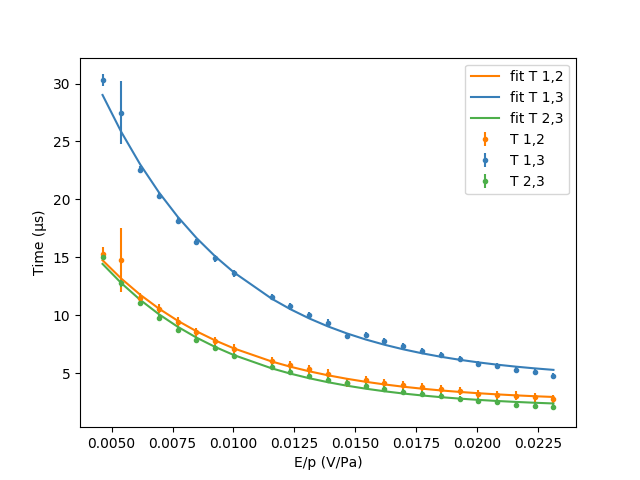
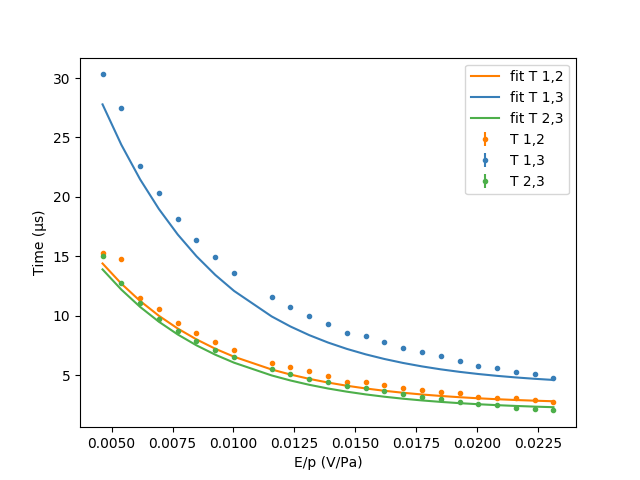
Further data analysis

diff --git a/plot_analyzed_data.py b/plot_analyzed_data.py
@@ -1,7 +1,7 @@
 import numpy as np
 import matplotlib.pyplot as plt
 import scipy.optimize as opt
-(voltages, reduced_E_fields, t12s, stdDevT12s, t13s, stdDevT13s, t23s, stdDevT23s, v12s, stdDevV12s, v13s, stdDevV13s, v23s, stdDevV23s) = np.loadtxt("results.tsv", delimiter="\t", unpack=True)
+(voltages, reduced_E_fields, t12s, stdDevT12s, t13s, stdDevT13s, t23s, stdDevT23s, v12s, stdDevV12s, v13s, stdDevV13s, v23s, stdDevV23s, v_av, std_v_av, diff_12, err_diff12, diff23, err_diff23, diff13, err_diff13, sigma12, err_sigma12, sigma23, err_sigma23, sigma13, err_sigma_13) = np.loadtxt("results.tsv", delimiter="\t", unpack=True)
 
 palette = plt.get_cmap('Set1')
 
@@ -12,9 +12,9 @@ def time_func(x, t0, a, b):
 def vel_func(x, a, b, c):
     return a + b*x + c*x**2
 
-optimizedParameters_t12, pcov_t12 = opt.curve_fit(time_func, reduced_E_fields, t12s, sigma=stdDevT13s, p0=[2.5, 30, 0.005])
+optimizedParameters_t12, pcov_t12 = opt.curve_fit(time_func, reduced_E_fields, t12s, sigma=stdDevT12s, p0=[3, 30, 0.005])
 print(f"optimizedParameters_t12: t0:'{optimizedParameters_t12[0]}', a:'{optimizedParameters_t12[1]}', b:'{optimizedParameters_t12[2]}', \npcov: {pcov_t12}")
-optimizedParameters_t13, pcov_t13 = opt.curve_fit(time_func, reduced_E_fields, t13s, sigma=stdDevT12s, p0=[4, 60, 0.005])
+optimizedParameters_t13, pcov_t13 = opt.curve_fit(time_func, reduced_E_fields, t13s, sigma=stdDevT13s, p0=[4, 60, 0.005])
 print(f"optimizedParameters_t13: t0:'{optimizedParameters_t13[0]}', a:'{optimizedParameters_t13[1]}', b:'{optimizedParameters_t13[2]}', \npcov: {pcov_t13}")
 optimizedParameters_t23, pcov_t23 = opt.curve_fit(time_func, reduced_E_fields, t23s, sigma=stdDevT23s, p0=[2, 30, 0.005])
 print(f"optimizedParameters_t23: t0:'{optimizedParameters_t23[0]}', a:'{optimizedParameters_t23[1]}', b:'{optimizedParameters_t23[2]}', \npcov: {pcov_t23}")
@@ -23,32 +23,55 @@ print(f"optimizedParameters_t23: t0:'{optimizedParameters_t23[0]}', a:'{optimize
 optimizedParameters_v12, pcov_v12 = opt.curve_fit(vel_func, reduced_E_fields, v12s, sigma=stdDevV12s, p0=[2.5, 30, 0.005])
 print(f"optimizedParameters_v12: a:'{optimizedParameters_v12[0]}', b:'{optimizedParameters_v12[1]}', c:'{optimizedParameters_v12[2]}', \npcov: {pcov_v12}")
 optimizedParameters_v13, pcov_v13 = opt.curve_fit(vel_func, reduced_E_fields, v13s, sigma=stdDevV13s, p0=[2.5, 30, 0.005])
-print(f"optimizedParameters_v12: a:'{optimizedParameters_v13[0]}', b:'{optimizedParameters_v13[1]}', c:'{optimizedParameters_v13[2]}', \npcov: {pcov_v13}")
+print(f"optimizedParameters_v13: a:'{optimizedParameters_v13[0]}', b:'{optimizedParameters_v13[1]}', c:'{optimizedParameters_v13[2]}', \npcov: {pcov_v13}")
 optimizedParameters_v23, pcov_v23 = opt.curve_fit(vel_func, reduced_E_fields, v23s, sigma=stdDevV23s, p0=[2.5, 30, 0.005])
-print(f"optimizedParameters_v12: a:'{optimizedParameters_v23[0]}', b:'{optimizedParameters_v23[1]}', c:'{optimizedParameters_v23[2]}', \npcov: {pcov_v23}")
-#================================Plots==================================================================================
+print(f"optimizedParameters_v23: a:'{optimizedParameters_v23[0]}', b:'{optimizedParameters_v23[1]}', c:'{optimizedParameters_v23[2]}', \npcov: {pcov_v23}")
 
-plt.plot(reduced_E_fields, time_func(reduced_E_fields, *optimizedParameters_t12), color=palette(4), label="fit T 1,2")
-plt.errorbar(reduced_E_fields, t12s, stdDevT12s, color=palette(4), fmt='.', label="T 1,2")
-plt.plot(reduced_E_fields, time_func(reduced_E_fields, *optimizedParameters_t13), color=palette(1), label="fit T 1,3")
-plt.errorbar(reduced_E_fields, t13s, stdDevT13s, color=palette(1), fmt='.', label="T 1,3")
-plt.plot(reduced_E_fields, time_func(reduced_E_fields, *optimizedParameters_t23), color=palette(2), label="fit T 2,3")
-plt.errorbar(reduced_E_fields, t23s, stdDevT23s, color=palette(2), fmt='.', label="T 2,3")
+# ================================Plots=================================================================================
+
+plt.plot(reduced_E_fields, time_func(reduced_E_fields, *optimizedParameters_t12), color=palette(4), label="fit T_12")
+plt.errorbar(reduced_E_fields, t12s, stdDevT12s, color=palette(4), fmt='.', label="T_12")
+plt.plot(reduced_E_fields, time_func(reduced_E_fields, *optimizedParameters_t13), color=palette(1), label="fit T_13")
+plt.errorbar(reduced_E_fields, t13s, stdDevT13s, color=palette(1), fmt='.', label="T_13")
+plt.plot(reduced_E_fields, time_func(reduced_E_fields, *optimizedParameters_t23), color=palette(2), label="fit T_23")
+plt.errorbar(reduced_E_fields, t23s, stdDevT23s, color=palette(2), fmt='.', label="T_23")
 plt.legend()
 plt.xlabel("E/p (V/Pa)")
 plt.ylabel("Time (µs)")
-plt.savefig("results_plot_pos.png")
+plt.grid(True)
+plt.savefig("results_plot_time_after_fixes.png")
 plt.clf()
 
 
-plt.errorbar(reduced_E_fields, v12s, stdDevT12s, color=palette(4), fmt='.', label="V 1,2")
-plt.plot(reduced_E_fields, vel_func(reduced_E_fields, *optimizedParameters_v12), color=palette(4), label="fit V 1,2")
-plt.errorbar(reduced_E_fields, v13s, stdDevV13s, color=palette(1), fmt='.', label="V 1,3")
-plt.plot(reduced_E_fields, vel_func(reduced_E_fields, *optimizedParameters_v13), color=palette(1), label="fit V 1,3")
-plt.errorbar(reduced_E_fields, v23s, stdDevV23s, color=palette(2), fmt='.', label="V 2,3")
-plt.plot(reduced_E_fields, vel_func(reduced_E_fields, *optimizedParameters_v23), color=palette(2), label="fit V 2,3")
+plt.errorbar(reduced_E_fields, v12s, stdDevT12s, color=palette(4), fmt='.', label="V_12")
+plt.plot(reduced_E_fields, vel_func(reduced_E_fields, *optimizedParameters_v12), color=palette(4), label="fit V_12")
+plt.errorbar(reduced_E_fields, v13s, stdDevV13s, color=palette(1), fmt='.', label="V_13")
+plt.plot(reduced_E_fields, vel_func(reduced_E_fields, *optimizedParameters_v13), color=palette(1), label="fit V_13")
+plt.errorbar(reduced_E_fields, v23s, stdDevV23s, color=palette(2), fmt='.', label="V_23")
+plt.plot(reduced_E_fields, vel_func(reduced_E_fields, *optimizedParameters_v23), color=palette(2), label="fit V_23")
 plt.legend()
 plt.xlabel("E/p (V/Pa)")
 plt.ylabel("Velocity (cm/µs)")
-plt.savefig("results_plot_vel.png")
+plt.grid(True)
+plt.savefig("results_plot_vel_after_fixes.png")
+plt.clf()
+
+plt.errorbar(reduced_E_fields, diff13, err_diff13, color=palette(4), fmt='.', label="D_13")
+plt.errorbar(reduced_E_fields, diff_12, err_diff12, color=palette(1), fmt='.', label="D_12")
+plt.errorbar(reduced_E_fields, diff23, err_diff23, color=palette(2), fmt='.', label="D_23")
+plt.legend()
+plt.xlabel("E/p (V/Pa)")
+plt.ylabel("D (mm^2/µs)")
+plt.grid(True)
+plt.savefig("diffusion.png")
+plt.clf()
+
+plt.errorbar(reduced_E_fields, sigma13, err_sigma_13, color=palette(4), fmt='.', label="D_13")
+plt.errorbar(reduced_E_fields, sigma12, err_sigma12, color=palette(1), fmt='.', label="D_12")
+plt.errorbar(reduced_E_fields, sigma23, err_sigma23, color=palette(2), fmt='.', label="D_23")
+plt.legend()
+plt.xlabel("E/p (V/Pa)")
+plt.ylabel("sigma (mm)")
+plt.grid(True)
+plt.savefig("szer_rozmycia.png")
 plt.clf()

diff --git a/analyze_data.py b/analyze_data.py
@@ -12,9 +12,20 @@ def calculateAverageAndStdDev(vals, variances):
 
 
 def calculateDeltaT(t2, stdDev2, t1, stdDev1):
-    deltaT = t2 - t1
+    deltaT = np.abs(t2 - t1)
     stdDev = np.sqrt(stdDev1**2 + stdDev2**2)
     return deltaT, stdDev
+
+def calc_diffusion_coeff(v, s):
+    diff_coeff = (1./3)*v[0]*s[0]
+    err = np.sqrt(((1/3)*s[0]*v[1])**2 + ((1/3)*s[1]*v[0])**2)
+    return diff_coeff, err
+
+def calc_width_of_spread(diffusion, time):
+    sigma = np.sqrt(2*diffusion[0]*time[0])
+    err = np.sqrt((time[0]*diffusion[1]/np.sqrt(diffusion[0]))**2 + (diffusion[0]*time[1]/np.sqrt(time[0]))**2)
+    return sigma, err
+
 
 def calculateVelocity(t, dist):
     """
@@ -26,17 +37,31 @@ def calculateVelocity(t, dist):
     uncertainty_vel = np.sqrt((dist[1]/t[0])**2 + (dist[0]*t[1]/t[0]**2)**2)
     return vel, uncertainty_vel
 
+sigma1_all = []
+sigma2_all = []
 by_voltage = {}
+sigmas_by_voltage = {}
 for file in os.listdir(DIR_NAME):
     from_to, voltage = os.path.splitext(os.path.basename(file))[0].split("_")
     voltage = int(voltage)
-    s1, v1, s2, v2 = np.loadtxt(os.path.join(DIR_NAME, file), unpack=True)
-    mean1, stdDev1 = calculateAverageAndStdDev(s1, v1)
-    mean2, stdDev2 = calculateAverageAndStdDev(s2, v2)
-    deltaT, stdDev = calculateDeltaT(mean2, stdDev2, mean1, stdDev1)
+    s1, v1, s2, v2, sigmas1, sigmas2 = np.loadtxt(os.path.join(DIR_NAME, file), unpack=True)
+    deltaTs = []
+    variances = []
+    for index in range(s1.shape[0]):
+        deltaT, stdDev = calculateDeltaT(s1[index], 0.01/np.sqrt(3), s2[index], 0.01/np.sqrt(3))
+        deltaTs.append(deltaT)
+        variances.append(stdDev)
+    mean, stdDev = calculateAverageAndStdDev(deltaTs, variances)
+    sigma1, err_sigma1 = calculateAverageAndStdDev(sigmas1, variances)
+    sigma1_all.append(sigma1)
+    sigma2, err_sigma2 = calculateAverageAndStdDev(sigmas1, variances)
+    sigma2_all.append(sigma2)
     if not voltage in by_voltage:
         by_voltage[voltage] = {}
-    by_voltage[voltage][from_to] = deltaT, stdDev
+    if not voltage in sigmas_by_voltage:
+        sigmas_by_voltage[voltage] = {}
+    by_voltage[voltage][from_to] = mean, stdDev
+    sigmas_by_voltage[voltage][from_to] = sigma1, sigma2
 voltages = []
 reduced_E_fields = []
 t12s = []
@@ -45,25 +70,76 @@ t23s = []
 v12s = []
 v23s = []
 v13s = []
+v_average = []
+diffusion_12 = []
+diffusion_23 = []
+diffusion_13 = []
+sigma_12 = []
+sigma_23 = []
+sigma_13 = []
 pressure = 129700#[Pa]
-dist12 = (4.60, 0.01) #[cm]
-dist23 = (9.42, 0.01)
-dist13 = (4.82, 0.01)
+dist23 = (4.60, 0.01/np.sqrt(3)) #[cm]
+dist13 = (9.42, 0.01/np.sqrt(3))
+dist12 = (4.82, 0.01/np.sqrt(3))
 
 for voltage, times in by_voltage.items():
     voltages.append(voltage)
     reduced_E_fields.append(voltage/pressure)
     t13 = times["13"]
-    t13s.append((t13))
+    t13s.append(t13)
     t23 = times["23"]
-    t23s.append((t23))
+    t23s.append(t23)
     t12 = calculateDeltaT(t13[0], t13[1], t23[0], t23[1])
     t12s.append(t12)
-    v12s.append(calculateVelocity(t12, dist12))
-    v13s.append(calculateVelocity(t13, dist13))
-    v23s.append(calculateVelocity(t23, dist23))
+    v12 = calculateVelocity(t12, dist12)
+    v13 = calculateVelocity(t13, dist13)
+    v23 = calculateVelocity(t23, dist23)
+    v12s.append(v12)
+    v13s.append(v13)
+    v23s.append(v23)
+    v_average.append(calculateAverageAndStdDev([v12[0], v13[0], v23[0]], [v12[1], v13[1], v23[1]]))
+    diffusion_12.append(calc_diffusion_coeff(v12, dist12))
+    diffusion_23.append(calc_diffusion_coeff(v23, dist23))
+    diffusion_13.append(calc_diffusion_coeff(v13, dist13))
+    sigma_12.append(calc_width_of_spread(calc_diffusion_coeff(v12, dist12), t12))
+    sigma_23.append(calc_width_of_spread(calc_diffusion_coeff(v23, dist23), t23))
+    sigma_13.append(calc_width_of_spread(calc_diffusion_coeff(v13, dist13), t13))
+
+sigmas1_13 = []
+sigmas2_13 = []
+sigmas1_23 = []
+sigmas2_23 = []
+for voltage, sigmas in sigmas_by_voltage.items():
+    sigmas_13 = sigmas["13"]
+    sigmas_23 = sigmas["23"]
+    sigmas1_13.append(sigmas_13[0])
+    sigmas1_23.append(sigmas_23[0])
+    sigmas2_13.append(sigmas_13[1])
+    sigmas2_23.append(sigmas_23[1])
 
 
-results = np.array([[voltage, reduced_E_field, t12[0], t12[1], t13[0], t13[1], t23[0], t23[1], v12[0], v12[1], v13[0], v13[1],v23[0], v23[1]] for voltage, reduced_E_field, t12, t13, t23, v12, v13, v23
-                    in sorted(zip(voltages, reduced_E_fields, t12s, t13s, t23s, v12s, v13s, v23s))])
-np.savetxt("results.tsv", results, delimiter="\t", header="Voltage (V)\t Reduced_E_field (V/Pa)\t t12 (us)\tstdDevt12 (us)\tt13 (us)\tstdDevt13 (us)\tt23 (us)\tstdDevt23 (us)\tVelocity12 (cm/s)\tStdbVelocity12 (cm/s)\tVelocity13 (cm/s)\tStdbVelocity13 (cm/s)\tVelocity23 (cm/s)\tStdbVelocity23 (cm/s)")
+print("reduced E field")
+print(reduced_E_fields)
+import matplotlib.pyplot as plt
+plt.scatter(reduced_E_fields, sigmas1_13, label="D1")
+plt.scatter(reduced_E_fields, sigmas2_23, label="D3")
+plt.legend()
+plt.xlabel("E/p (V/Pa)")
+plt.ylabel("Sigma (µs)")
+plt.grid(True)
+plt.savefig("rozmycie_czasowe_13.png")
+plt.clf()
+
+plt.scatter(reduced_E_fields, sigmas1_23, label='D2')
+plt.scatter(reduced_E_fields, sigmas2_23, label='D3')
+plt.legend()
+plt.xlabel("E/p (V/Pa)")
+plt.ylabel("Sigma (µs)")
+plt.grid(True)
+plt.savefig("rozmycie_czasowe_23.png")
+plt.clf()
+
+
+results = np.array([[voltage, reduced_E_field, t12[0], t12[1], t13[0], t13[1], t23[0], t23[1], v12[0], v12[1], v13[0], v13[1], v23[0], v23[1], v_av[0], v_av[1], d12[0], d12[1], d23[0], d23[1], d13[0], d23[1], s12[0], s12[1], s23[0], s23[1], s13[0], s13[1]] for voltage, reduced_E_field, t12, t13, t23, v12, v13, v23, v_av, d12, d13, d23, s12, s23, s13
+                    in sorted(zip(voltages, reduced_E_fields, t12s, t13s, t23s, v12s, v13s, v23s, v_average, diffusion_12, diffusion_23, diffusion_13, sigma_12, sigma_23, sigma_13))])
+np.savetxt("results.tsv", results, delimiter="\t", header="Voltage (V)\t Reduced_E_field (V/Pa)\t t12 (us)\tstdDevt12 (us)\tt13 (us)\tstdDevt13 (us)\tt23 (us)\tstdDevt23 (us)\tVelocity12 (cm/s)\tStdbVelocity12 (cm/s)\tVelocity13 (cm/s)\tStdbVelocity13 (cm/s)\tVelocity23 (cm/s)\tStdbVelocity23 (cm/s)\tv_av\tv_av_std\tdiffusion12\tstd_diffusion12\tdiffusion23\tstd_diffusion23\tdiffusion13\t std_diffusion13\tsigma_12\tstd_sigma12\tsigma23\tstd_sigma23\tsigma13\t std_sigma13")

diff --git a/extract_means_and_variances.py b/extract_means_and_variances.py
@@ -27,6 +27,9 @@ for dir in [name for name in os.listdir(DIR_NAME) if os.path.isdir(os.path.join(
         variances1 = []
         means2 = []
         variances2 = []
+        means_diff = []
+        sigmas1 = []
+        sigmas2 = []
         if (units[1] == "V"):
             data[:, 1, :] *= 1000
         if (units[2] == "V"):
@@ -49,19 +52,33 @@ for dir in [name for name in os.listdir(DIR_NAME) if os.path.isdir(os.path.join(
             mean2, var2 = get_mean_and_variance(*popt2)
             means2.append(mean2)
             variances2.append(var2)
-            # plt.plot(dataset[0], emg(dataset[0], *popt1), "b")
-            # plt.plot(dataset[0], dataset[1], "b+")
-            # plt.plot(dataset[0], emg(dataset[0], *popt2), "r")
-            # plt.plot(dataset[0], dataset[2], "r+")
-            # plt.savefig(os.path.join(dir_path + "_fitpng", f"{from_to}_{freq}_{index}.png"))
+            sigmas1.append(popt1[2])
+            sigmas2.append(popt2[2])
+            if mean1 and mean2:
+                means_diff.append(np.abs(mean2-mean1))
+            else:
+                means_diff.append(0)
+            # palette = plt.get_cmap('Blues')
+            # palette1 = plt.get_cmap('Oranges')
+            # plt.plot(dataset[0], emg(dataset[0], *popt1), color=palette(1000))
+            # plt.scatter(dataset[0][::10],dataset[1][::10], color=palette(900))
+            # # plt.errorbar(dataset[0], dataset[1], 0.01/np.sqrt(3), color=palette(900), fmt='.')
+            # plt.plot(dataset[0], emg(dataset[0], *popt2), color=palette1(1000))
+            # plt.scatter(dataset[0][::10],dataset[2][::10], color=palette1(900))
+            # # plt.errorbar(dataset[0], dataset[2], 0.01/np.sqrt(3), color=palette1(900), fmt='.')
+            # plt.savefig(os.path.join(dir_path + "_fitpng", f"{from_to}_{voltage}_{index}.png"))
+            # plt.xlabel('Time (µs)')
+            # plt.ylabel('Voltage (mV)')
+            # plt.grid(True)
+            # plt.show()
             # plt.clf()
             print(units, from_to, voltage, index)
-        analyzed[from_to][str(voltage)] = np.array([means1, variances1, means2, variances2])
+        analyzed[from_to][str(voltage)] = np.array([means1, variances1, means2, variances2, sigmas1, sigmas2])
 
 data_dir = "DATA"
 shutil.rmtree(data_dir, ignore_errors=True)
 os.mkdir(data_dir)
 for from_to, byfreq in analyzed.items():
     for voltage, data in byfreq.items():
-        np.savetxt(os.path.join(data_dir, f"{from_to}_{voltage}.tsv"), data.T, delimiter="\t", header="meanChannel1\tvarianceChannel1\tmeanChannel2\tvarianceChannel2")
+        np.savetxt(os.path.join(data_dir, f"{from_to}_{voltage}.tsv"), data.T, delimiter="\t", header="meanChannel1\tvarianceChannel1\tmeanChannel2\tvarianceChannel2\tmean_diff\tsigmans1\tsigmas2")
 print("done", analyzed)

diff --git a/fit_data.py b/fit_data.py
@@ -15,3 +15,5 @@ def fit_emg(xdata, ydata, initial_guess=None):
 
 def get_mean_and_variance(h, mu, sigma, tau, c):
     return (mu + tau, sigma**2 + tau**2)
+
+
